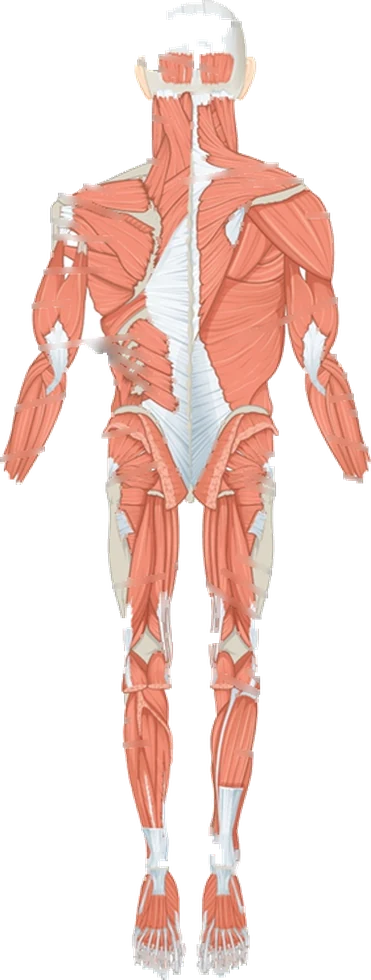
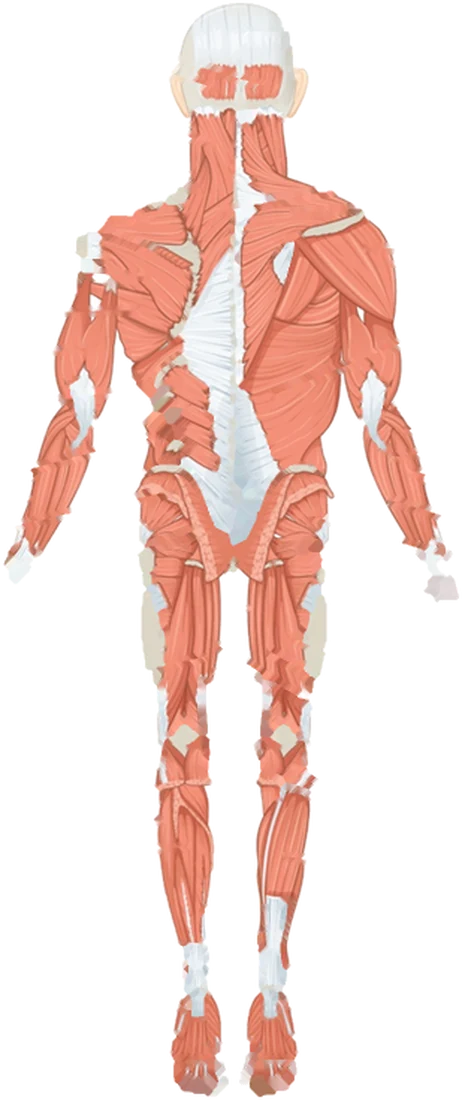
Add files via upload

Changed region(s): [[0.0, 0.0, 1.0, 1.0]]

diff --git a/index.html b/index.html
@@ -1164,12 +1164,12 @@
 .howto[open] summary::before { content: "▾"; }
 .howto-in { display: flex; gap: 22px; flex-wrap: wrap; padding-bottom: 6px; }
 
-.bodies { display: flex; gap: 14px; flex-shrink: 0; cursor: pointer; position: relative; }
+.bodies { display: flex; gap: 14px; flex-shrink: 0; cursor: pointer; position: relative; --bodyh: 284px; align-items: flex-start; }
 .bodybox { text-align: center; }
 
 /* Иллюстрация мышечной системы и слой подсветки поверх неё */
-.atlas { position: relative; width: 150px; }
-.atlas-img { width: 100%; display: block; }
+.atlas { position: relative; height: var(--bodyh); width: auto; }
+.atlas-img { height: 100%; width: auto; display: block; }
 .atlas-over { position: absolute; inset: 0; width: 100%; height: 100%; }
 .zone { fill: rgba(40,140,255,.66); }
 .zone.on2 { fill: rgba(60,150,240,.26); }
@@ -1182,7 +1182,7 @@
   font-size: 11px; color: var(--gray); opacity: .85;
 }
 .bodies.big { justify-content: center; cursor: default; gap: 10px; }
-.bodies.big .atlas { width: 142px; }
+.bodies.big { --bodyh: 340px; }
 
 .howto-txt { flex: 1; min-width: 210px; }
 .mchips { display: flex; flex-wrap: wrap; gap: 6px; margin-bottom: 12px; }
@@ -1203,14 +1203,14 @@
 @media (max-width: 720px) {
   .howto-in { gap: 26px; }
   .bodies { width: 100%; justify-content: center; gap: 10px; }
-  .atlas { width: 142px; }
-  .bodies.big .atlas { width: 132px; }
+  .bodies { --bodyh: 270px; }
+  .bodies.big { --bodyh: 285px; }
   .howto-txt { min-width: 100%; }
 }
 @media (max-width: 380px) {
   .bodies { gap: 6px; }
-  .atlas { width: 118px; }
-  .bodies.big .atlas { width: 114px; }
+  .bodies { --bodyh: 224px; }
+  .bodies.big { --bodyh: 240px; }
 }
 
 /* Кнопка возврата над содержимым экрана */
@@ -2600,27 +2600,27 @@ function renderWeekChallenge() {
    ═══════════════════════════════════════════════ */
 
 var ATLAS = {
-  front: { src: "img/body-front.webp", w: 418, h: 980, zones: {
-    traps: ["M176 140 154 150 152 160 152 170 267 170 267 160 263 150 243 140Z"],
-    delts: ["M105 160 94 170 94 180 94 190 94 200 94 210 94 220 94 230 94 240 94 250 153 250 153 240 153 230 153 220 153 210 153 200 153 190 153 180 153 170 153 160Z", "M264 160 264 170 264 180 264 190 264 200 264 210 264 220 264 230 264 240 264 250 323 250 323 240 323 230 323 220 323 210 323 200 323 190 323 180 323 170 313 160Z"],
-    chest: ["M126 164 126 174 126 184 126 194 126 204 126 214 126 224 126 234 126 244 126 254 126 264 126 274 126 284 126 294 204 294 204 284 204 274 204 264 204 254 204 244 204 234 204 224 204 214 204 204 204 194 204 184 204 174 204 164Z", "M213 164 213 174 213 184 213 194 213 204 213 214 213 224 213 234 213 244 213 254 213 264 213 274 213 284 213 294 293 294 293 284 293 274 293 264 293 254 293 244 293 234 293 224 293 214 293 204 293 194 293 184 293 174 293 164Z"],
-    abs: ["M168 298 168 308 168 318 168 328 168 338 168 348 168 358 168 368 168 378 168 388 168 398 168 408 168 418 168 428 168 438 168 448 249 448 249 438 249 428 249 418 249 408 249 398 249 388 249 378 249 368 249 358 249 348 249 338 249 328 249 318 249 308 249 298Z"],
-    obliques: ["M130 298 130 308 130 318 130 328 130 338 130 348 130 358 130 368 130 378 130 388 130 398 130 408 130 418 130 428 130 438 130 448 130 458 167 458 167 448 167 438 167 428 167 418 167 408 167 398 167 388 167 378 167 368 167 358 167 348 167 338 167 328 167 318 167 308 167 298Z", "M250 298 250 308 250 318 250 328 250 338 250 348 250 358 250 368 250 378 250 388 250 398 250 408 250 418 250 428 250 438 250 448 250 458 289 458 289 448 289 438 289 428 289 418 289 408 289 398 289 388 289 378 289 368 289 358 289 348 289 338 289 328 289 318 289 308 289 298Z"],
-    biceps: ["M61 244 63 254 65 264 60 274 60 284 60 294 60 304 60 314 60 324 60 334 123 334 123 324 123 314 123 304 123 294 123 284 123 274 123 264 123 254 123 244Z", "M296 244 296 254 296 264 296 274 296 284 296 294 296 304 296 314 296 324 296 334 359 334 359 324 359 314 359 304 359 294 359 284 357 274 352 264 348 254 356 244Z"],
-    forearms: ["M28 342 24 352 24 362 24 372 24 382 24 392 24 402 24 412 24 422 24 432 24 442 45 442 51 432 56 422 62 412 66 402 68 392 71 382 74 372 75 362 80 352 83 342Z", "M338 342 338 352 342 362 345 372 346 382 348 392 352 402 357 412 361 422 367 432 372 442 395 442 395 432 395 422 395 412 395 402 395 392 395 382 395 372 395 362 395 352 389 342Z"],
-    quads: ["M124 484 124 494 124 504 124 514 124 524 124 534 124 544 124 554 124 564 124 574 124 584 124 594 124 604 124 614 124 624 124 634 125 644 129 654 135 664 144 674 198 674 198 664 198 654 201 644 202 634 202 624 201 614 201 604 199 594 198 584 199 574 199 564 199 554 201 544 199 534 199 524 201 514 202 504 203 494 203 484Z", "M216 484 216 494 216 504 218 514 218 524 218 534 218 544 216 554 218 564 218 574 219 584 218 594 218 604 216 614 216 624 216 634 218 644 219 654 219 664 220 674 273 674 283 664 288 654 292 644 295 634 295 624 295 614 295 604 295 594 295 584 295 574 295 564 295 554 295 544 295 534 295 524 295 514 295 504 295 494 295 484Z"],
-    calves: ["M146 698 145 708 141 718 140 728 140 738 140 748 140 758 140 768 140 778 140 788 140 798 140 808 140 818 140 828 140 838 142 848 145 858 178 858 180 848 182 838 184 828 186 818 188 808 191 798 193 788 195 778 197 768 197 758 195 748 194 738 193 728 191 718 193 708 195 698Z", "M223 698 225 708 226 718 224 728 223 738 222 748 222 758 222 768 223 778 224 788 226 798 228 808 231 818 233 828 235 838 238 848 239 858 272 858 275 848 278 838 279 828 279 818 279 808 279 798 279 788 279 778 279 768 279 758 279 748 279 738 279 728 277 718 273 708 271 698Z"]
+  front: { src: "img/body-front.webp", w: 581, h: 1100, zones: {
+    traps: ["M207 178 207 188 207 198 207 208 382 208 382 198 382 188 363 178Z"],
+    delts: ["M164 190 152 200 150 210 150 220 150 230 150 240 150 250 150 260 150 270 150 280 150 290 215 290 215 280 215 270 215 260 215 250 215 240 215 230 215 220 215 210 215 200 215 190Z", "M374 190 374 200 374 210 374 220 374 230 374 240 374 250 374 260 374 270 374 280 374 290 439 290 439 280 439 270 439 260 439 250 439 240 439 230 439 220 437 210 430 200 420 190Z"],
+    chest: ["M202 204 202 214 202 224 202 234 202 244 202 254 202 264 202 274 202 284 202 294 202 304 202 314 202 324 285 324 285 314 285 304 285 294 285 284 285 274 285 264 285 254 285 244 285 234 285 224 285 214 285 204Z", "M304 204 304 214 304 224 304 234 304 244 304 254 304 264 304 274 304 284 304 294 304 304 304 314 304 324 387 324 387 314 387 304 387 294 387 284 387 274 387 264 387 254 387 244 387 234 387 224 387 214 387 204Z"],
+    abs: ["M252 352 252 362 252 372 252 382 252 392 252 402 252 412 252 422 252 432 252 442 252 452 252 462 252 472 252 482 252 492 252 502 341 502 341 492 341 482 341 472 341 462 341 452 341 442 341 432 341 422 341 412 341 402 341 392 341 382 341 372 341 362 341 352Z"],
+    obliques: ["M214 352 214 362 214 372 214 382 214 392 214 402 214 412 214 422 214 432 214 442 214 452 214 462 214 472 214 482 214 492 214 502 247 502 247 492 247 482 247 472 247 462 247 452 247 442 247 432 247 422 247 412 247 402 247 392 247 382 247 372 247 362 247 352Z", "M346 352 346 362 346 372 346 382 346 392 346 402 346 412 346 422 346 432 346 442 346 452 346 462 346 472 346 482 346 492 346 502 379 502 379 492 379 482 379 472 379 462 379 452 379 442 379 432 379 422 379 412 379 402 379 392 379 382 379 372 379 362 379 352Z"],
+    biceps: ["M132 298 132 308 132 318 132 328 132 338 132 348 132 358 132 368 132 378 132 388 132 398 132 408 132 418 203 418 203 408 203 398 203 388 203 378 203 368 203 358 203 348 203 338 203 328 203 318 203 308 203 298Z", "M386 298 386 308 386 318 386 328 386 338 386 348 386 358 386 368 386 378 386 388 386 398 386 408 386 418 457 418 457 408 457 398 457 388 457 378 457 368 457 358 457 348 457 338 457 328 457 318 456 308 452 298Z"],
+    forearms: ["M70 430 68 440 66 450 64 460 63 470 63 480 61 490 60 500 56 510 60 520 55 530 46 540 47 550 179 550 179 540 179 530 179 520 179 510 179 500 179 490 179 480 124 470 179 460 132 450 135 440 137 430Z", "M445 430 446 440 450 450 453 460 459 470 464 480 470 490 475 500 488 510 494 520 501 530 507 540 518 550 527 550 536 540 526 530 525 520 530 510 528 500 520 490 519 480 513 470 517 460 516 450 514 440 512 430Z"],
+    quads: ["M206 556 206 566 206 576 206 586 206 596 206 606 206 616 206 626 206 636 206 646 206 656 206 666 206 676 206 686 206 696 206 706 206 716 206 726 206 736 281 736 282 726 284 716 284 706 282 696 282 686 281 676 279 666 281 656 281 646 281 636 281 626 284 616 281 606 281 596 281 586 284 576 284 566 289 556Z", "M300 556 300 566 300 576 301 586 301 596 301 606 300 616 302 626 301 636 301 646 301 656 302 666 301 676 300 686 300 696 300 706 300 716 300 726 302 736 379 736 383 726 383 716 383 706 383 696 383 686 383 676 383 666 383 656 383 646 383 636 383 626 383 616 383 606 383 596 383 586 383 576 383 566 383 556Z"],
+    calves: ["M222 786 220 796 216 806 212 816 212 826 212 836 212 846 212 856 212 866 212 876 212 886 212 896 212 906 212 916 212 926 212 936 213 946 262 946 264 936 266 926 268 916 271 906 273 896 275 886 276 876 278 866 278 856 276 846 276 836 275 826 273 816 272 806 275 796 276 786Z", "M305 786 307 796 311 806 308 816 308 826 305 836 305 846 305 856 305 866 305 876 307 886 310 896 310 906 314 916 316 926 319 936 321 946 369 946 372 936 373 926 373 916 373 906 373 896 373 886 373 876 373 866 373 856 373 846 373 836 373 826 370 816 366 806 362 796 360 786Z"]
   }},
-  back: { src: "img/body-back.webp", w: 371, h: 980, zones: {
-    traps: ["M149 98 154 108 154 118 153 128 152 138 154 148 149 158 133 168 120 178 120 188 120 198 120 208 120 218 120 228 120 238 120 248 120 258 120 268 120 278 120 288 120 298 249 298 249 288 249 278 249 268 249 258 249 248 249 238 249 228 249 218 249 208 249 198 249 188 249 178 249 168 249 158 236 148 236 138 235 128 233 118 232 108 241 98Z"],
-    delts_rear: ["M109 178 84 188 68 198 68 208 68 218 68 228 68 238 68 248 129 248 129 238 129 228 129 218 129 208 129 198 129 188 129 178Z", "M240 158 240 168 240 178 240 188 240 198 240 208 240 218 240 228 240 238 240 248 301 248 301 238 301 228 301 218 301 208 301 198 301 188 300 178 280 168 255 158Z"],
-    lats: ["M104 232 104 242 104 252 104 262 104 272 104 282 104 292 104 302 104 312 104 322 104 332 104 342 104 352 110 362 113 372 116 382 117 392 114 402 175 402 175 392 175 382 175 372 175 362 175 352 175 342 175 332 175 322 175 312 175 302 175 292 175 282 175 272 175 262 175 252 175 242 175 232Z", "M194 232 194 242 194 252 194 262 194 272 194 282 194 292 194 302 194 312 194 322 194 332 194 342 194 352 194 362 194 372 194 382 194 392 194 402 265 402 265 392 265 382 265 372 265 362 265 352 265 342 265 332 265 322 265 312 265 302 265 292 265 282 265 272 265 262 265 252 265 242 265 232Z"],
-    lowback: ["M154 372 154 382 154 392 154 402 154 412 154 422 154 432 154 442 154 452 215 452 215 442 215 432 215 422 215 412 215 402 215 392 215 382 215 372Z"],
-    triceps: ["M53 242 52 252 51 262 46 272 44 282 44 292 44 302 44 312 44 322 44 332 44 342 109 342 109 332 109 322 109 312 109 302 109 292 109 282 109 272 109 262 109 252 109 242Z", "M260 242 260 252 260 262 260 272 260 282 260 292 260 302 260 312 260 322 260 332 260 342 325 342 325 332 325 322 325 312 325 302 325 292 325 282 325 272 325 262 325 252 325 242Z"],
-    forearms: ["M40 348 36 358 30 368 26 378 22 388 19 398 17 408 15 418 14 428 14 438 14 448 42 448 46 438 51 428 55 418 59 408 62 398 64 388 64 378 66 368 72 358 89 348Z", "M280 348 280 358 304 368 306 378 307 388 308 398 312 408 315 418 320 428 325 438 331 448 355 448 355 438 355 428 355 418 353 408 351 398 348 388 344 378 340 368 334 358 329 348Z"],
-    glutes: ["M120 448 120 458 120 468 120 478 120 488 120 498 120 508 120 518 120 528 120 538 120 548 249 548 249 538 249 528 249 518 249 508 249 498 249 488 249 478 249 468 249 458 249 448Z"],
-    hams: ["M120 552 120 562 120 572 120 582 120 592 120 602 121 612 133 622 125 632 125 642 129 652 126 662 169 662 170 652 170 642 169 632 167 622 167 612 169 602 171 592 173 582 174 572 175 562 177 552Z", "M204 552 205 562 207 572 208 582 211 592 213 602 213 612 213 622 212 632 221 642 211 652 212 662 249 662 249 652 249 642 249 632 249 622 249 612 249 602 249 592 249 582 249 572 249 562 249 552Z"],
-    calves: ["M124 678 124 688 126 698 126 708 126 718 125 728 125 738 126 748 127 758 129 768 130 778 133 788 135 798 138 808 141 818 143 828 146 838 147 848 166 848 166 838 163 828 162 818 162 808 163 798 165 788 167 778 167 768 170 758 171 748 170 738 167 728 166 718 166 708 165 698 169 688 167 678Z", "M213 678 212 688 216 698 217 708 217 718 213 728 212 738 212 748 213 758 212 768 213 778 215 788 215 798 215 808 213 818 211 828 215 838 221 848 237 848 236 838 236 828 237 818 240 808 243 798 245 788 245 778 245 768 245 758 245 748 245 738 245 728 245 718 245 708 245 698 245 688 245 678Z"]
+  back: { src: "img/body-back.webp", w: 462, h: 1100, zones: {
+    traps: ["M190 128 192 138 190 148 190 158 190 168 190 178 179 188 168 198 154 208 154 218 154 228 154 238 154 248 154 258 154 268 154 278 154 288 154 298 154 308 154 318 154 328 307 328 307 318 307 308 307 298 307 288 307 278 307 268 307 258 307 248 307 238 307 228 307 218 307 208 307 198 307 188 291 178 286 168 286 158 284 148 283 138 281 128Z"],
+    delts_rear: ["M140 208 109 218 102 228 79 238 78 248 83 258 83 268 78 278 78 288 149 288 149 278 149 268 149 258 149 248 149 238 149 228 149 218 149 208Z", "M320 198 320 208 320 218 320 228 320 238 320 248 320 258 320 268 320 278 320 288 395 288 394 278 393 268 392 258 391 248 384 238 377 228 366 218 359 208 341 198Z"],
+    lats: ["M120 252 120 262 120 272 120 282 120 292 120 302 120 312 120 322 120 332 122 342 125 352 134 362 133 372 138 382 145 392 153 402 153 412 199 412 199 402 199 392 199 382 199 372 199 362 199 352 199 342 199 332 199 322 199 312 199 302 199 292 199 282 199 272 199 262 199 252Z", "M256 252 256 262 256 272 256 282 256 292 256 302 256 312 256 322 256 332 256 342 256 352 256 362 256 372 256 382 256 392 256 402 256 412 335 412 335 402 335 392 335 382 335 372 335 362 335 352 335 342 335 332 335 322 335 312 335 302 335 292 335 282 335 272 335 262 335 252Z"],
+    lowback: ["M174 378 174 388 174 398 174 408 174 418 174 428 174 438 174 448 174 458 174 468 283 468 283 458 283 448 283 438 283 428 283 418 283 408 283 398 283 388 283 378Z"],
+    triceps: ["M78 278 78 288 75 298 71 308 66 318 63 328 59 338 56 348 56 358 56 368 57 378 59 388 59 398 106 398 109 388 109 378 129 368 129 358 129 348 129 338 129 328 129 318 129 308 129 298 129 288 129 278Z", "M338 278 338 288 338 298 338 308 338 318 338 328 338 338 338 348 338 358 338 368 338 378 338 388 338 398 392 398 396 388 399 378 399 368 399 358 398 348 396 338 392 328 392 318 393 308 395 298 395 288 394 278Z"],
+    forearms: ["M61 402 57 412 51 422 47 432 44 442 41 452 38 462 34 472 33 482 32 492 29 502 26 512 23 522 18 532 52 532 59 522 69 512 70 502 75 492 79 482 83 472 87 462 91 452 91 442 91 432 90 422 100 412 104 402Z", "M358 402 358 412 366 422 364 432 365 442 367 452 369 462 373 472 377 482 381 492 386 502 392 512 398 522 404 532 438 532 435 522 432 512 428 502 425 492 423 482 419 472 418 462 416 452 411 442 409 432 405 422 398 412 392 402Z"],
+    glutes: ["M148 476 148 486 148 496 148 506 148 516 148 526 148 536 148 546 148 556 148 566 148 576 148 586 317 586 317 576 317 566 317 556 317 546 317 536 317 526 317 516 317 506 317 496 317 486 317 476Z"],
+    hams: ["M148 598 148 608 148 618 148 628 148 638 148 648 148 658 148 668 155 678 159 688 159 698 160 708 159 718 205 718 203 708 203 698 203 688 211 678 214 668 215 658 219 648 218 638 218 628 218 618 218 608 218 598Z", "M249 598 247 608 249 618 249 628 250 638 250 648 249 658 255 668 256 678 264 688 264 698 264 708 262 718 308 718 309 708 305 698 310 688 314 678 315 668 315 658 315 648 315 638 315 628 315 618 315 608 315 598Z"],
+    calves: ["M162 756 160 766 158 776 156 786 160 796 160 806 157 816 159 826 159 836 160 846 160 856 162 866 163 876 165 886 168 896 169 906 172 916 175 926 202 926 202 916 205 906 206 896 208 886 208 876 211 866 211 856 212 846 211 836 207 826 206 816 206 806 205 796 205 786 207 776 206 766 206 756Z", "M259 756 262 766 261 776 261 786 262 796 264 806 264 816 261 826 258 836 258 846 258 856 259 866 258 876 259 886 261 896 261 906 261 916 261 926 289 926 292 916 295 906 298 896 299 886 302 876 302 866 301 856 303 846 305 836 306 826 308 816 308 806 307 796 309 786 311 776 305 766 305 756Z"]
   }}
 };
 

diff --git a/sw.js b/sw.js
@@ -2,7 +2,7 @@
    Стратегия: сеть первой для страницы (чтобы не застрять на старой версии),
    кэш первым для иконок. Без сети всё берётся из кэша. */
 
-var CACHE = "forge-body-v2";   /* имя новое: старый кэш игры-плана сносится сам */
+var CACHE = "forge-body-v3";   /* имя новое: старый кэш игры-плана сносится сам */
 var ASSETS = [
   "./",
   "./index.html",

diff --git a/README.md b/README.md
@@ -1,1 +1,78 @@
-# game
+# Кузница — ежедневные тренировки
+
+Домашние тренировки с гантелями, превращённые в игру: у каждого дня недели своя группа мышц, каждый подход записывается, а за работу капают опыт, уровни и ранги E→S.
+
+## Игра живёт здесь
+
+https://vladislavbropiton.github.io/game/
+
+Открывается с компьютера и с телефона, интернет нужен только при первом заходе.
+
+## Что внутри
+
+**Задание дня.** Игра сама знает, что сегодня тренируем:
+
+| День | Группа |
+|---|---|
+| Понедельник | Бицепс |
+| Вторник | Спина |
+| Среда | Плечи |
+| Четверг | Ноги |
+| Пятница | Трицепс |
+| Суббота | Грудь |
+| Воскресенье | Предплечья |
+
+Расписание меняется в профиле — можно переставить группы как удобно, прошлые записи при этом не трогаются.
+
+**Запись подходов.** Выбираете упражнение из списка (5–7 вариантов на группу) или вписываете своё. Дальше записываете каждый подход: вес и повторы. После подхода запускается отсчёт отдыха.
+
+**Как выполнять и что работает.** У каждого упражнения есть разбор: анатомическая иллюстрация тела спереди и сзади с подсветкой работающих мышц (основные ярко, вспомогательные приглушённо), техника по шагам и частая ошибка. По нажатию схема открывается крупно.
+
+Иллюстрация мышечной системы взята из учебника **OpenStax Anatomy & Physiology** (лицензия CC BY 4.0), подписи и линии-выноски убраны, фон сделан прозрачным. Файлы лежат в `img/` и кэшируются для работы без интернета.
+
+**Рекорды.** Игра помнит, что вы делали в прошлый раз, и подсвечивает подход, который побил личный рекорд: больший вес — или то же железо, но больше повторов.
+
+**Потолок снаряда.** В профиле задаётся максимальный вес одной гантели (по умолчанию 15 кг). Пока вес можно добавить, игра предлагает вес. На потолке она переключается на повторы: рекордом становится каждый лишний повтор, а подсказка предлагает способ усложнить подход без железа — медленное опускание, пауза внизу, короткий отдых, работа одной рукой.
+
+**Опыт и ранги.** За тренировку: 60 за явку, плюс за объём (вес × повторы), 25 за каждый рекорд и бонус за серию дней. Ранги: E «Пробуждённый» → D «Охотник» → C «Ветеран» → B «Элита» → A «Мастер» → S «Монарх».
+
+**Серия дней.** Считается серия ежедневных тренировок, один пропуск прощается — иначе одна занятая среда обнуляет месяц.
+
+**Навигация.** Между экранами — нижнее меню на телефоне и верхнее на компьютере. На экране тренировки есть кнопка «← К списку упражнений» (с записанными подходами она спросит: остаться, засчитать тренировку или выбросить). Системная кнопка «назад» на телефоне сначала закрывает окно, потом возвращает на прошлый экран.
+
+**Экраны.** Статус (ранг, кольцо дня, неделя, вызов недели), Тренировка, Журнал (все тренировки по дням), Сила (рекорды и объём по неделям), Профиль (календарь на 12 недель, достижения, расписание, настройки).
+
+**Достижения.** 19 штук: первая тренировка, неделя без пропусков, идеальная неделя (все семь дней), железная привычка (серия 30 дней), сотня подходов, десять тонн, полный круг по всем группам, а также четыре про повторы — «Пятнадцать на пятнадцати», «Двадцатка», «Сотня за тренировку» и «Пять тысяч повторов».
+
+**Хроники Системы.** 54 коротких истории про 32 человек — Сталлоне, Шварценеггер, Джеки Чан, Брюс Ли, Али, Тайсон, Карелин, Власов, Поддубный, Засс, Хабиб, Роналду, Коби, Джордан, Фелпс, Бубка, Гоггинс и другие. У каждого героя фотография: она подгружается из Викимедиа, лицензия и автор подписаны прямо в окне. Без интернета вместо фото показывается значок, текст остаётся на месте.
+
+Записи открываются по мере тренировок: первая — после первой, последняя — после 237-й. У одного героя может быть несколько разных историй.
+
+## Установка на телефон
+
+Игра ставится на домашний экран как обычное приложение: своя иконка, запуск на весь экран, работа без интернета.
+
+**Android (Chrome):** открыть ссылку → меню «⋮» → «Установить приложение».
+
+**iPhone (только Safari, в Chrome такого пункта нет):** открыть ссылку → «Поделиться» → «На экран Домой».
+
+## Перенос прогресса между устройствами
+
+Прогресс хранится в браузере того устройства, где вы тренируетесь: на телефоне и компьютере он свой. Чтобы перенести:
+
+1. Профиль → «Код синхронизации» → «Скопировать».
+2. На другом устройстве: Профиль → «Загрузить код» → вставить.
+
+Игра хранит одну версию сохранения назад — если что-то сломается, в профиле есть «Откатить сохранение». Единственная полная резервная копия — это код синхронизации, скопированный себе в заметки.
+
+## Состав репозитория
+
+| Файл | Зачем |
+|---|---|
+| `index.html` | вся игра: разметка, стили и логика в одном файле, без библиотек |
+| `manifest.json` | описание приложения для установки на телефон |
+| `sw.js` | офлайн-режим |
+| `icon-*.png`, `apple-touch-icon.png` | иконки приложения |
+| `img/body-front.webp`, `img/body-back.webp` | анатомические иллюстрации (OpenStax, CC BY 4.0) |
+
+Никаких сборщиков и зависимостей: `index.html` открывается двойным кликом и работает сам по себе.
